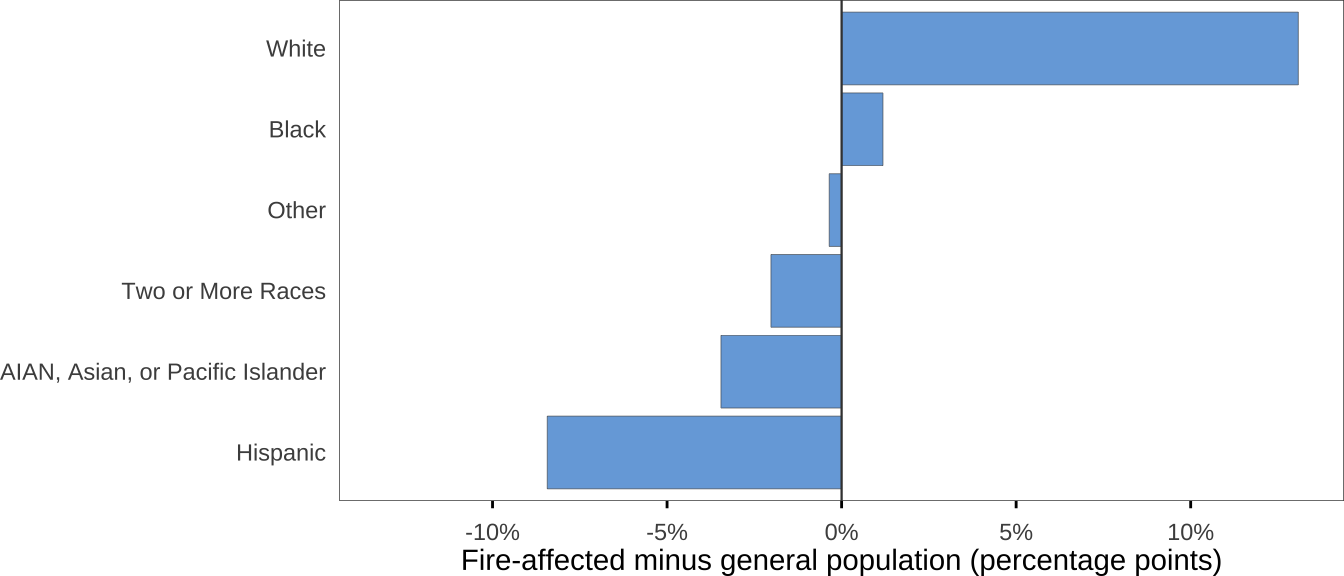
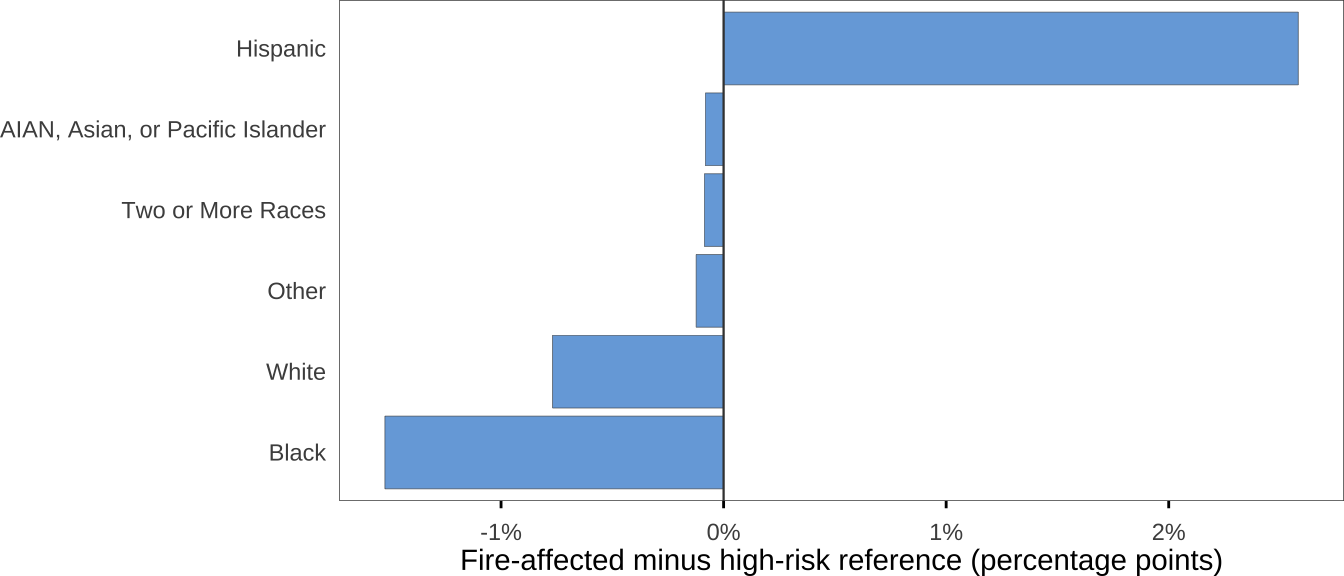
Built site for gh-pages

diff --git a/reports/population.html b/reports/population.html
@@ -287,7 +287,7 @@ ul.task-list li input[type="checkbox"] {
 <div class="quarto-figure quarto-figure-center">
 <figure class="figure">
 <p><img src="population_files/figure-html/diverge_overall_fig-1.png" class="img-fluid figure-img" width="672"></p>
-<figcaption>Difference in fire-affected vs.&nbsp;general population shares, pooled 2000–2024</figcaption>
+<figcaption>Difference in fire-affected vs.&nbsp;high-wildfire-risk population shares, pooled 2000–2024</figcaption>
 </figure>
 </div>
 </div>
@@ -300,7 +300,7 @@ ul.task-list li input[type="checkbox"] {
 <div class="quarto-figure quarto-figure-center">
 <figure class="figure">
 <p><img src="population_files/figure-html/diverge_regional_fig-1.png" class="img-fluid figure-img" width="1344"></p>
-<figcaption>Difference in fire-affected vs.&nbsp;general population shares by USFS region, pooled 2000–2024</figcaption>
+<figcaption>Difference in fire-affected vs.&nbsp;high-wildfire-risk population shares by USFS region, pooled 2000–2024</figcaption>
 </figure>
 </div>
 </div>
@@ -313,7 +313,7 @@ ul.task-list li input[type="checkbox"] {
 <div class="quarto-figure quarto-figure-center">
 <figure class="figure">
 <p><img src="population_files/figure-html/diverge_race_fig-1.png" class="img-fluid figure-img" width="672"></p>
-<figcaption>Race/ethnicity composition: fire-affected minus general population share, pooled 2000–2024</figcaption>
+<figcaption>Race/ethnicity composition: fire-affected minus high-wildfire-risk population share, pooled 2000–2024</figcaption>
 </figure>
 </div>
 </div>
@@ -397,7 +397,7 @@ ul.task-list li input[type="checkbox"] {
     }
       var localhostRegex = new RegExp(/^(?:http|https):\/\/localhost\:?[0-9]*\//);
       var mailtoRegex = new RegExp(/^mailto:/);
-        var filterRegex = new RegExp("https:\/\/casey-cohort\.github\.io\/wfbz_descriptives\/");
+        var filterRegex = new RegExp('/' + window.location.host + '/');
       var isInternal = (href) => {
           return filterRegex.test(href) || localhostRegex.test(href) || mailtoRegex.test(href);
       }

diff --git a/reports/fema.html b/reports/fema.html
@@ -204,6 +204,15 @@ ul.task-list li input[type="checkbox"] {
 </div>
 </div>
 <p>Declarations per Event (Scale Shifted)</p>
+<div class="cell">
+<div class="cell-output-display">
+<div>
+<figure class="figure">
+<p><img src="fema_files/figure-html/unnamed-chunk-8-1.png" class="img-fluid figure-img" width="672"></p>
+</figure>
+</div>
+</div>
+</div>
 
 
 </section>
@@ -282,7 +291,7 @@ ul.task-list li input[type="checkbox"] {
     }
       var localhostRegex = new RegExp(/^(?:http|https):\/\/localhost\:?[0-9]*\//);
       var mailtoRegex = new RegExp(/^mailto:/);
-        var filterRegex = new RegExp("https:\/\/casey-cohort\.github\.io\/wfbz_descriptives\/");
+        var filterRegex = new RegExp('/' + window.location.host + '/');
       var isInternal = (href) => {
           return filterRegex.test(href) || localhostRegex.test(href) || mailtoRegex.test(href);
       }

diff --git a/reports/main.html b/reports/main.html
@@ -2963,7 +2963,7 @@ ul.task-list li input[type="checkbox"] {
     }
       var localhostRegex = new RegExp(/^(?:http|https):\/\/localhost\:?[0-9]*\//);
       var mailtoRegex = new RegExp(/^mailto:/);
-        var filterRegex = new RegExp("https:\/\/casey-cohort\.github\.io\/wfbz_descriptives\/");
+        var filterRegex = new RegExp('/' + window.location.host + '/');
       var isInternal = (href) => {
           return filterRegex.test(href) || localhostRegex.test(href) || mailtoRegex.test(href);
       }
